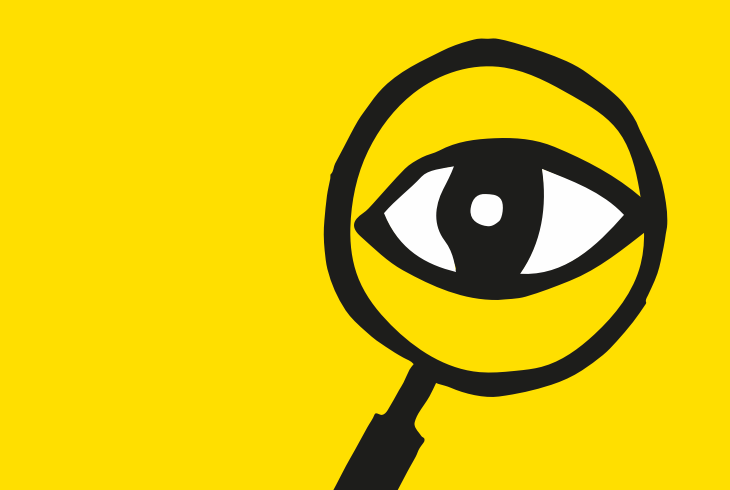
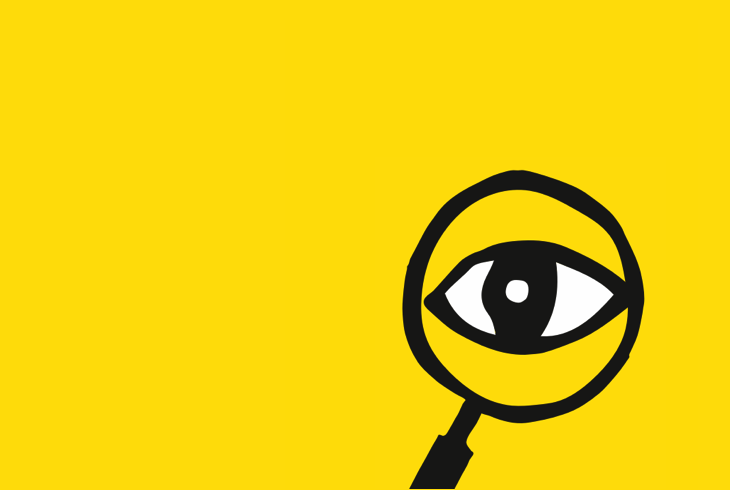
Make volksentscheid tile better readable

Changed region(s): [[0.4219, 0.0612, 0.9342, 1.0]]

diff --git a/content/projekte/volksentscheid.md b/content/projekte/volksentscheid.md
@@ -4,7 +4,7 @@ kategorien:
   - Offenes Regierungshandeln
 categories:
   - Open Government
-tile: single
+tile: double
 layout: project
 title: Volksentscheid Transparenz Berlin
 subtitle: Wissen für alle!
